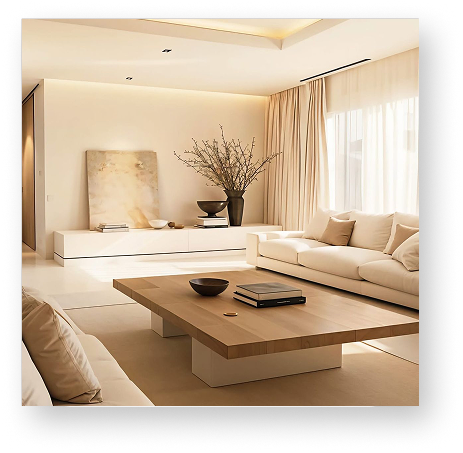
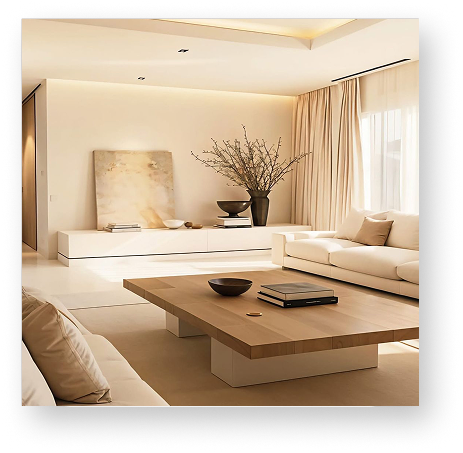
fix: image border radius,size

diff --git a/web/css/service.css b/web/css/service.css
@@ -80,13 +80,43 @@
     margin-bottom: 35px;
 }
 
+.three-help {
+    display: flex;
+    gap: 61px;
+}
+
+.three-help img {
+    border-radius: var(--small-img);
+    ;
+    aspect-ratio: 1/1;
+}
+
+.support-images {
+    position: relative;
+    width: 100%;
+    overflow: hidden;
+}
+
 .support-images img {
     width: 100%;
-    max-width: 300px;
-    height: 220px;
-    object-fit: cover;
-    border-radius: 25px;
-    aspect-ratio: 1/1;
+    display: block;
+}
+
+.overlay {
+    position: absolute;
+    inset: 0;
+    background: rgba(59, 42, 35, 0.63);
+    opacity: 1;
+    border-radius: var(--small-img);
+    transition: 0.3s;
+}
+
+.overlay h2 {
+    color: #FDF8F2;
+}
+
+.support-images:hover .overlay {
+    opacity: 0;
 }
 
 

diff --git a/web/service.html b/web/service.html
@@ -134,11 +134,15 @@
 
             <h2 class="support-title">How can we support you?</h2>
 
+            <div class="three-help">
+                <div class="support-images">
+                    <img src="images/help1.png" alt="Contact us">
+                </div>
 
-            <div class="support-images">
-                <img src="images/help1.png" alt="Contact us">
-                <img src="images/help2.png" alt="Feedback">
-                <img src="images/help3.png" alt="FAQ">
+                <div class="support-images"><img src="images/help2.png" alt="Feedback"></div>
+
+                <div class="support-images"><img src="images/help3.png" alt="FAQ">
+                </div>
             </div>
 
 
